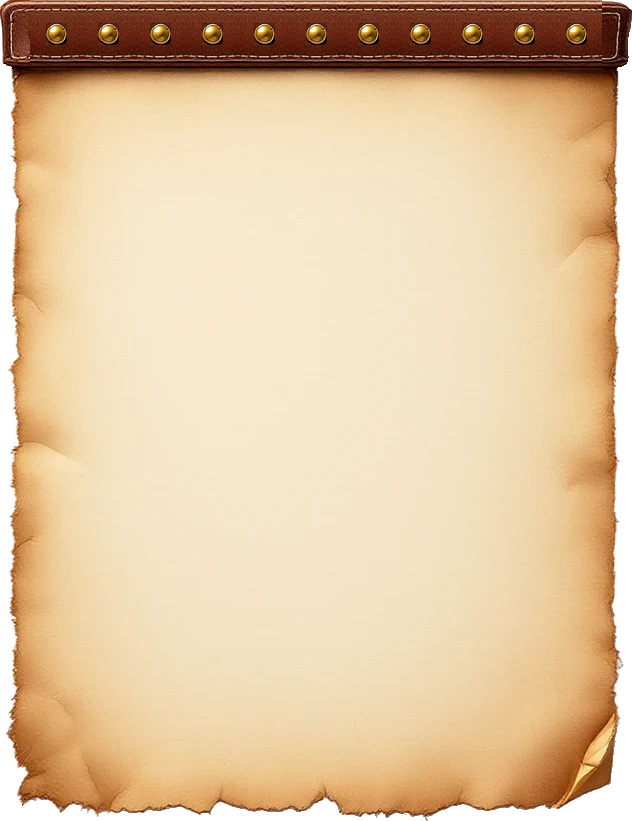
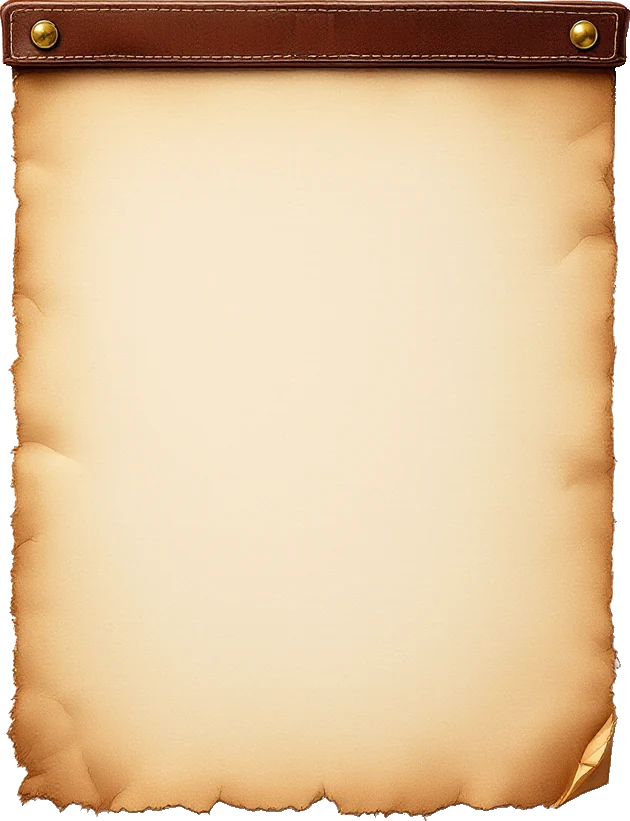
RPG-Heute: Kalender-Riemen wie generiert statt eingesetzter Nieten
Der Riemen bleibt wie im generierten Bild (Nieten an den Enden, in den
nicht gestreckten Ecken); nur die mittlere Niete ist durch glattes Leder
ersetzt, gestreckt wird nur das glatte Mittelstueck.

Changed region(s): [[0.0302, 0.0, 0.9651, 0.0914]]

diff --git a/css/today-rpg.css b/css/today-rpg.css
@@ -456,15 +456,15 @@
 
 /* Mini-Kalender: Abreißkalender mit Lederleiste und Messingnieten */
 /* Abreißkalender: dünner Lederriemen nur ganz oben (über Monatsname und
-   Knöpfen), darunter das Papier. Die Riemen-Mitte ist im Bild aus
-   gleichen, nahtlosen Stücken mit je einer Niete gebaut und wird gekachelt
-   (round) — bei normaler Breite elf Nieten, breiter entsprechend mehr,
-   immer im gleichen Abstand. Asset wallcal-strap.webp: 632 px breit,
-   Riemen 72 px, Enden 30/40 px, Unterkante (gerissen, Eselsohr) 70 px. */
-[data-today-style="rpg"] #today-mini-cal { --tilt: 0deg; --flip: 1; padding: 44px 24px 34px 20px; }
+   Knöpfen), darunter das Papier — so wie generiert, keine eingesetzten
+   Nieten. Die beiden End-Nieten liegen in den Ecken (werden nie
+   verzerrt), gestreckt wird nur das glatte Leder dazwischen. Asset
+   wallcal-strap.webp: 630 px breit, Riemen 72 px, Enden je 70 px,
+   Unterkante (gerissen, Eselsohr) 70 px. */
+[data-today-style="rpg"] #today-mini-cal { --tilt: 0deg; --flip: 1; padding: 44px 22px 34px 20px; }
 [data-today-style="rpg"] #today-mini-cal::before {
-  border-width: 34px 19px 33px 14px;
-  border-image: url('../assets/today/wallcal-strap.webp?v=2') 72 40 70 30 fill / 34px 19px 33px 14px / 0 round stretch;
+  border-width: 34px 33px 33px 33px;
+  border-image: url('../assets/today/wallcal-strap.webp?v=3') 72 70 70 70 fill / 34px 33px 33px 33px / 0 stretch;
 }
 [data-today-style="rpg"] #today-mini-cal::after { display: none; }
 

diff --git a/js/nook-version.js b/js/nook-version.js
@@ -17,7 +17,7 @@ window.NOOK_CHANGELOG = [
     version: '2026.10.11',
     date: '2026-10-27',
     items: [
-      'RPG-Heute: Abreißkalender neu – dünner Lederriemen nur oben mit elf Nieten, ohne grauen Schatten; Bilder der Heute-Seite werden nach Änderungen sofort neu geladen',
+      'RPG-Heute: Abreißkalender neu – dünner Lederriemen nur oben mit Nieten an den Enden, ohne grauen Schatten; Bilder der Heute-Seite werden nach Änderungen sofort neu geladen',
       'RPG-Heute: Taschenuhr ohne Bügel und deutlich größer (Datum steht im Kopf), Uhrzeiten der Blöcke auf hellen Etiketten, Abreißkalender als ein durchgehendes Bild, graue Schattenränder an Tagebuch und Kalender entfernt',
       'Heute: passt auf breiten Bildschirmen (ab 1500 px) in jedem Theme ohne Scrollen auf eine Seite – die rechte Spalte steht in zwei Stapeln nebeneinander',
       'RPG-Heute: Datum und KW-Knöpfe im Kopf besser lesbar, Tischplatte bei Tag heller, Tagebuch ohne grauen Rand',
